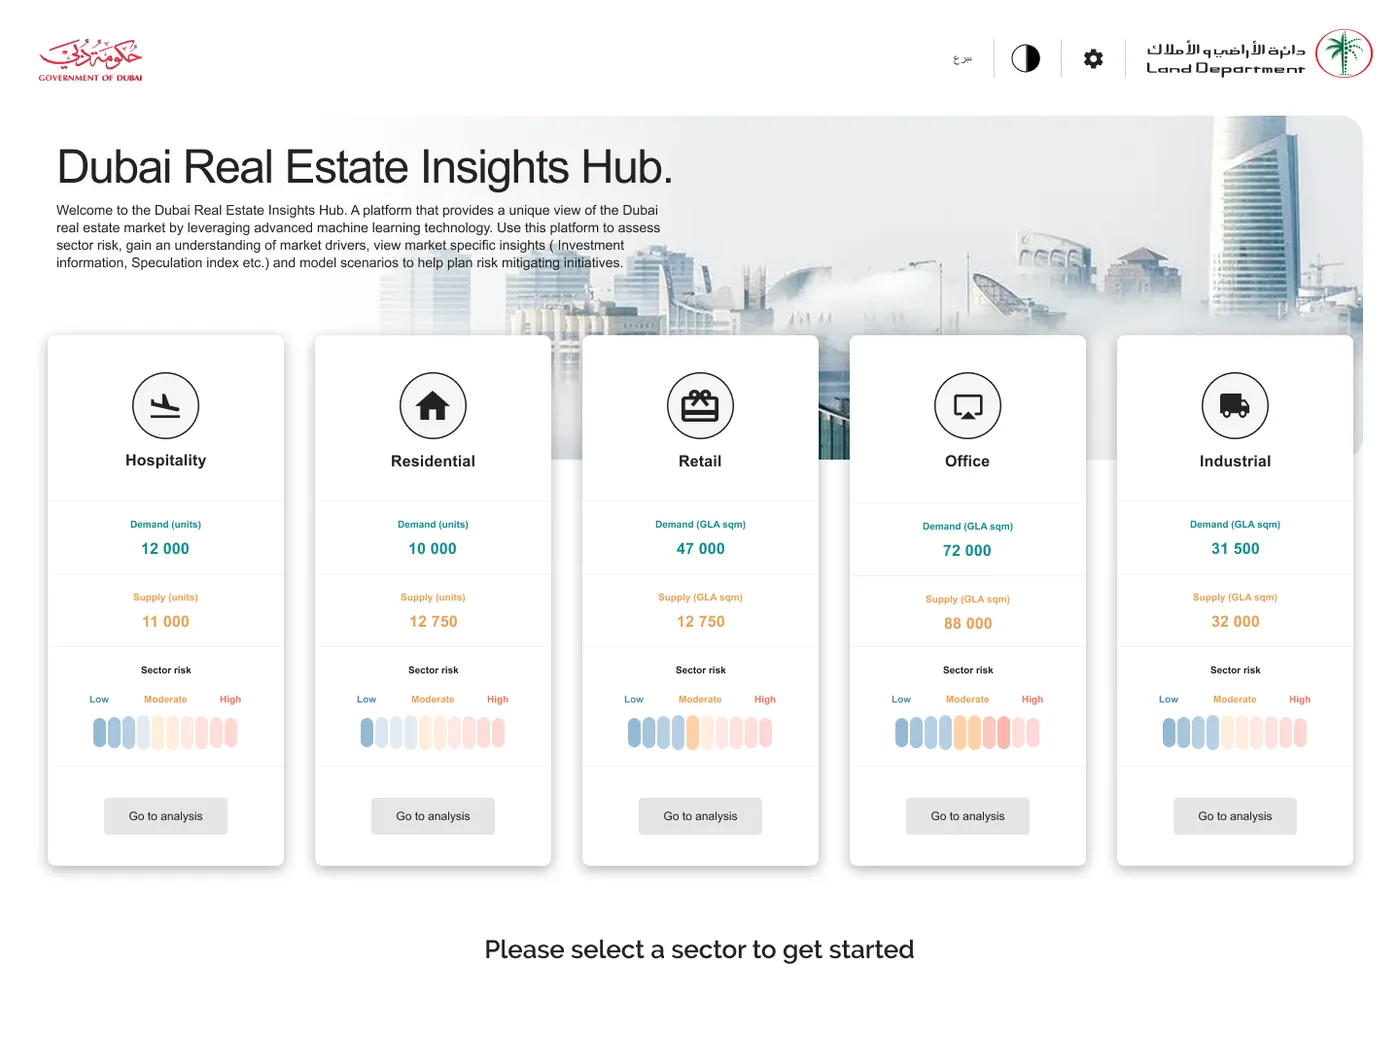
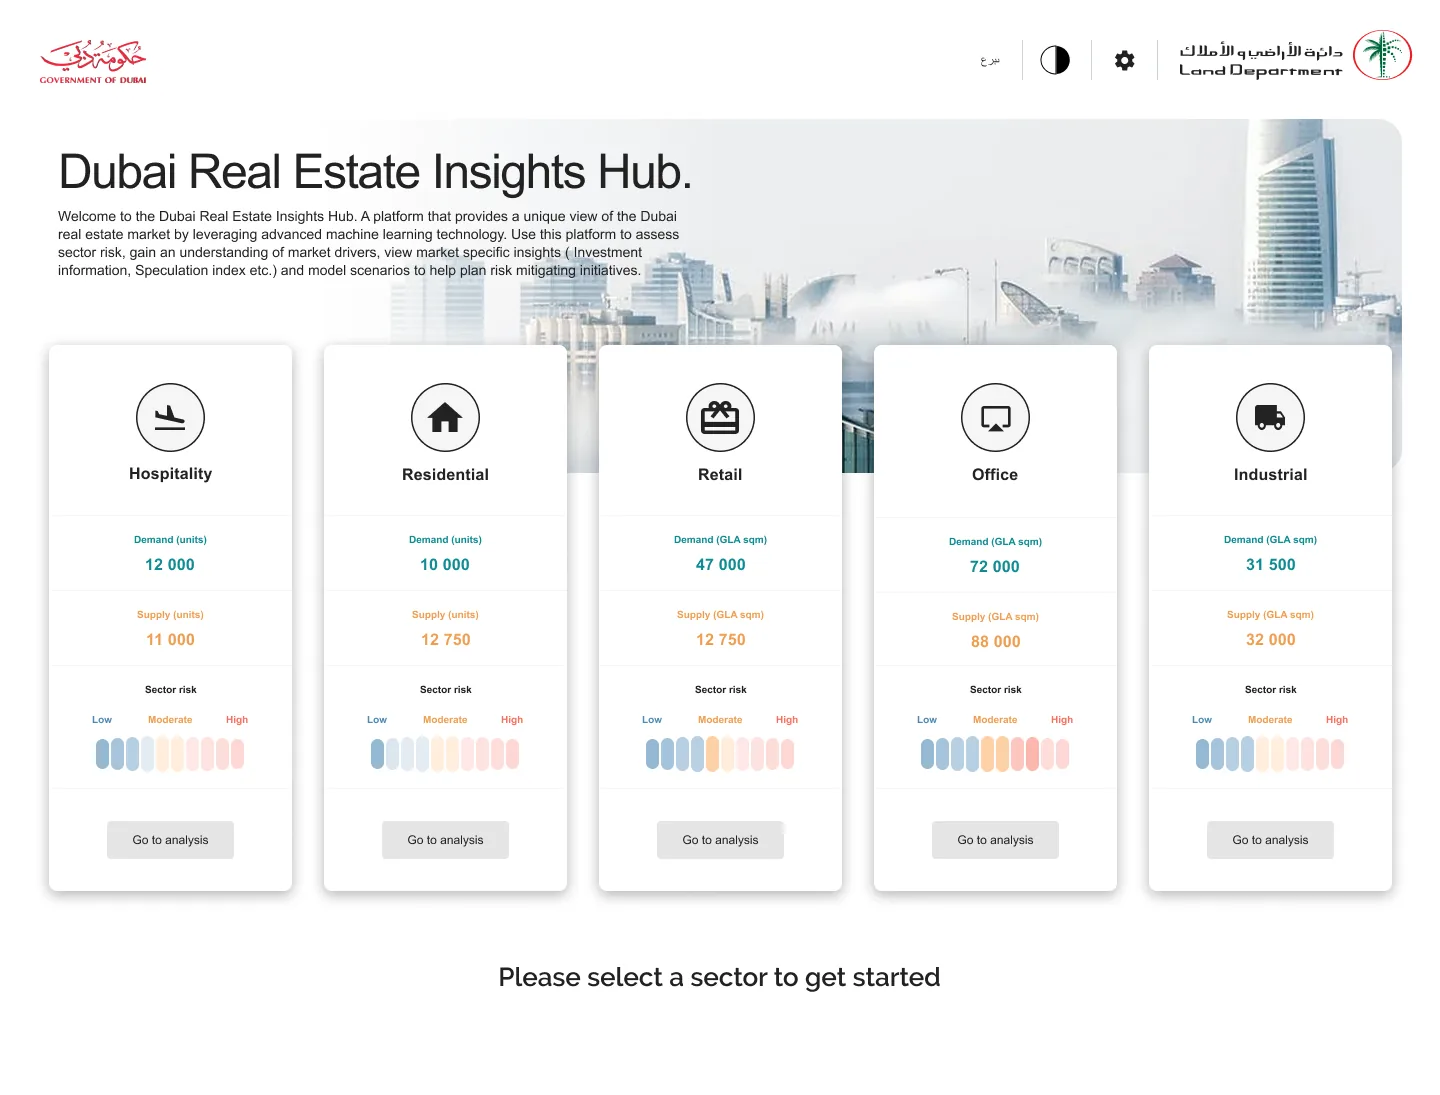
Feature the landing page in the Insights Hub case study
Claude-Session: https://claude.ai/code/session_01TJQrcVc2suHUGZejK7mDD8

Changed region(s): [[0.9521, 0.031, 0.9829, 0.062], [0.3071, 0.2171, 0.3379, 0.2481]]

diff --git a/lib/cases.ts b/lib/cases.ts
@@ -208,14 +208,16 @@ export const CASES: CaseStudy[] = [
    summary:'A bilingual market-intelligence platform that helps the Dubai Land Department read sector risk, market drivers and future scenarios across five real estate sectors.',
    tags:['Heuristic evaluation','Information architecture','Data visualisation'], platform:'Web platform, English and Arabic, light and dark', tools:['Figma'],
    status:'Delivered', timeline:'2021',
-   resp:'I reviewed the first build against usability heuristics and WCAG 2.1 AA, restructured the information architecture, and designed the UI and data visualisations.',
+   resp:'I ran the UX audit of the first build against usability heuristics and WCAG 2.1 AA, designed the landing page where every sector is reviewed side by side, and carried that pattern through the information architecture, UI and data visualisations.',
    findings:[['Each sector page opened every tool at once, running to over 11,000 pixels on residential.', 'KPIs, the map and the forecast stay on top, and each tool folds into its own section. The residential page is now 2,182 pixels, 81% shorter.'], ['Drivers affect every sector but sat in the navigation as if they were a sixth sector.', 'They moved into their own Macroeconomic Insights area, so sector content and cross-sector drivers each have a clear home.'], ['On a long page, users had to remember where each tool was.', 'An Insights Tools row and shortcuts beside the map open any section in one click.'], ['Sector risk was shown by colour alone.', 'The risk scale carries Low, Moderate and High labels, and each risk gauge states its verdict in words.'], ['Terms like net migration or crude oil production appeared without context.', 'Every driver has an info tooltip that shows its trend as a small chart.']],
    metrics:[['Task success rate', '', 'Share of people who reach their goal without help. Here: finding a sector\u2019s risk and the drivers behind it.'], ['Time on task', '', 'How long an action takes from start to finish. Shorter usually means a smoother flow. Here: from signing in to reading a sector\u2019s key metrics.'], ['Error rate', '', 'How often people slip up, such as wrong taps or invalid entries, before they finish. Here: opening the wrong sector or misreading a chart.'], ['Conversion and retention', '', 'How many people complete key actions, like signing up or paying, and how many come back. Here: scenarios created and analysts returning each week.']],
    problem:'Deloitte\u2019s machine-learning models forecast demand, supply, risk, investor behaviour and macroeconomic drivers for five real estate sectors. The first build showed all of it at once, which made it hard for policy teams to find the answer they came for.',
-   approach:'I ran a heuristic evaluation of every screen, rated each finding by severity and played the results back to the team. The redesign leads with the answer and lets analysts go deeper on demand: a snapshot of every sector, a sector dashboard with collapsible tools, and scenario modelling built around the drivers.',
+   approach:'I ran a UX audit of every screen, rated each finding by severity and played the results back to the team. From there I designed a landing page where all five sectors can be reviewed side by side. Its cards, clear hierarchy and answer-first layout then shaped the rest of the design: sector dashboards with collapsible tools and scenario modelling built around the drivers.',
    sections:[
-    {id:'overview-screen', title:'Every sector at a glance', body:['After signing in with UAE PASS, the overview shows demand, supply and risk for all five sectors on one screen. Selecting a sector opens its key metrics, and selecting a second puts the two side by side.'],
-     two:true, figs:[['dld_overview','Snapshot of all five sectors'],['dld_compare','Hospitality and residential compared side by side']]},
+    {id:'landing', title:'The landing page', body:['I designed the landing page so every sector can be reviewed at the same time. After signing in with UAE PASS, people see demand, supply and sector risk for hospitality, residential, retail, office and industrial side by side, each on the same card and the same risk scale.', 'This page set the direction for everything that followed. The card structure, the answer-first hierarchy and the consistent risk scale became the pattern for the sector dashboards and scenario tools.'],
+     figs:[['dld_overview','Landing page: all five sectors reviewed side by side']]},
+    {id:'compare', title:'Compare sectors side by side', body:['Selecting a sector opens its key metrics below: demand and supply over time and a risk gauge. Selecting a second sector puts both next to each other, so analysts can compare markets without leaving the page.'],
+     two:true, figs:[['dld_one','One sector selected, with its key metrics'],['dld_compare','Hospitality and residential compared side by side']]},
     {id:'architecture', title:'From a long scroll to a dashboard', body:['Every sector page used to open all of its tools: pricing, investment view, investor profile, transactions, map and scenarios. I kept the KPIs, map and forecast at the top and folded each tool into a section with its own shortcut.'],
      two:true, figs:[['dld_length','Sector page length, first build and final, drawn to the same scale'],['dld_final','Final residential page with collapsible tool sections']]},
     {id:'scenarios', title:'Scenario analysis', body:['Scenario analysis shows whether planned supply meets forecast demand. Drivers are grouped into high, medium and low impact, each with a trend chart in its tooltip, and saved scenarios such as Dubai Expo 2021 or a 5% oil price drop carry a risk score.'],
